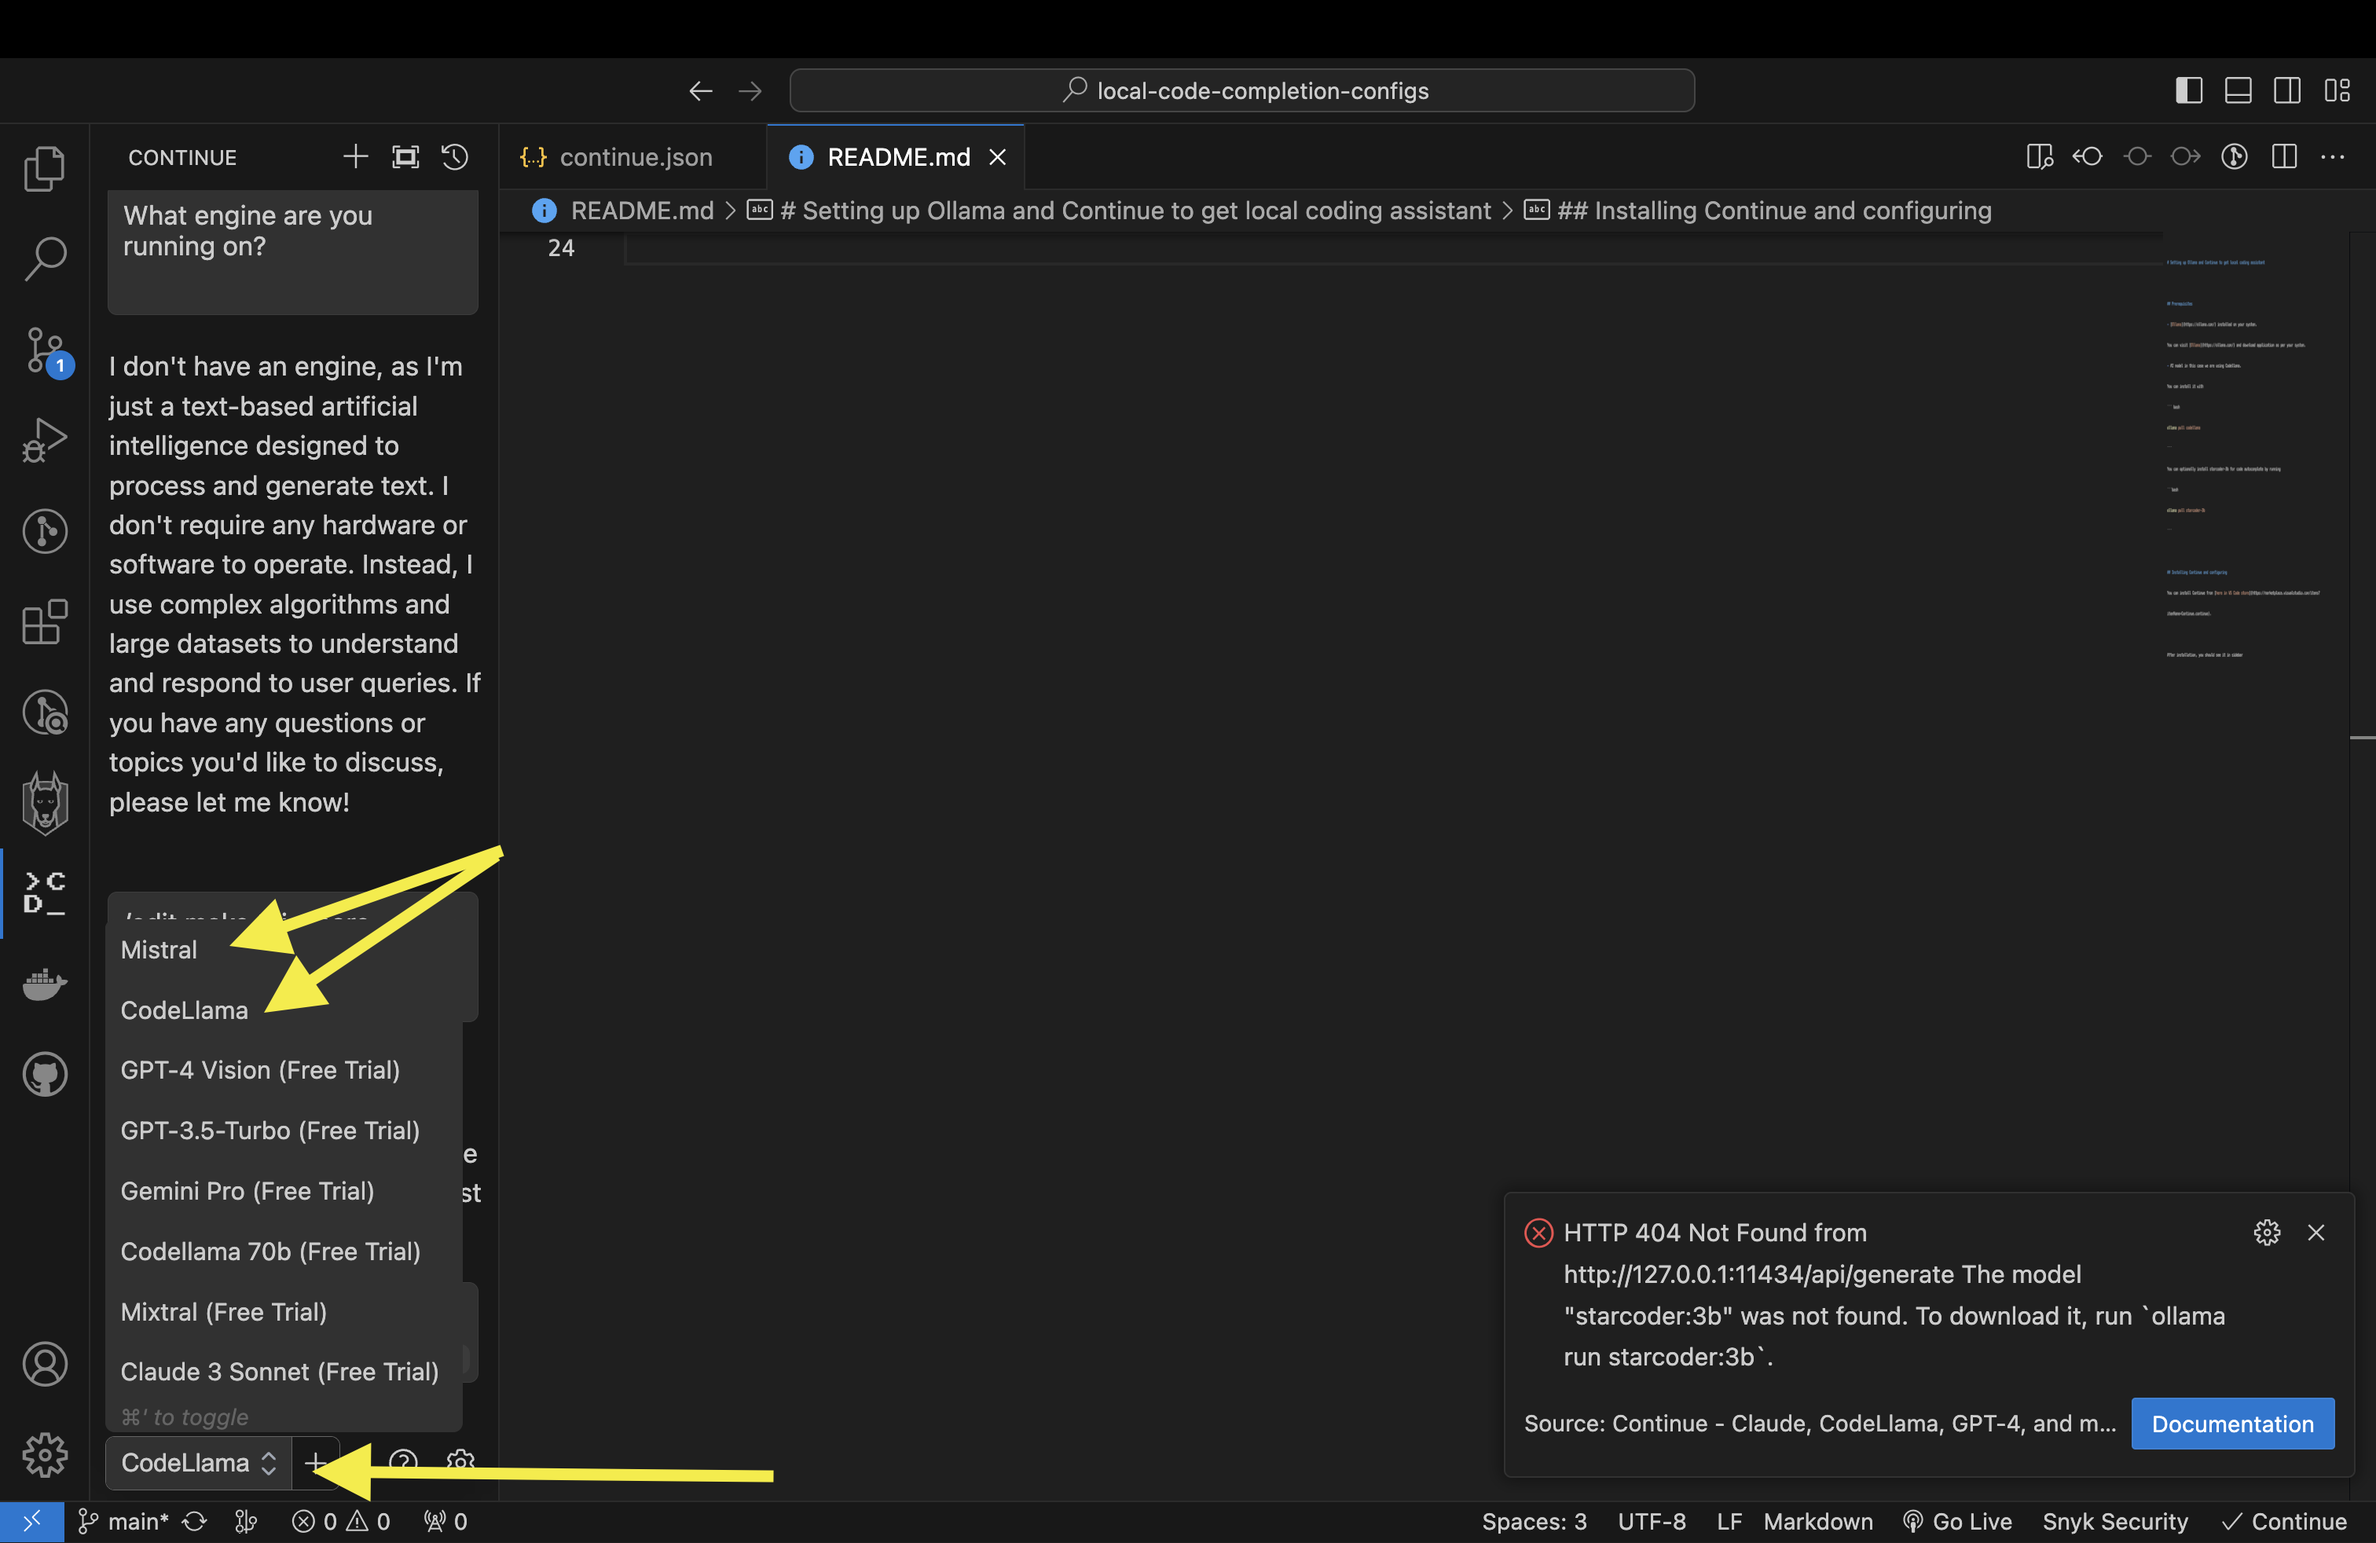
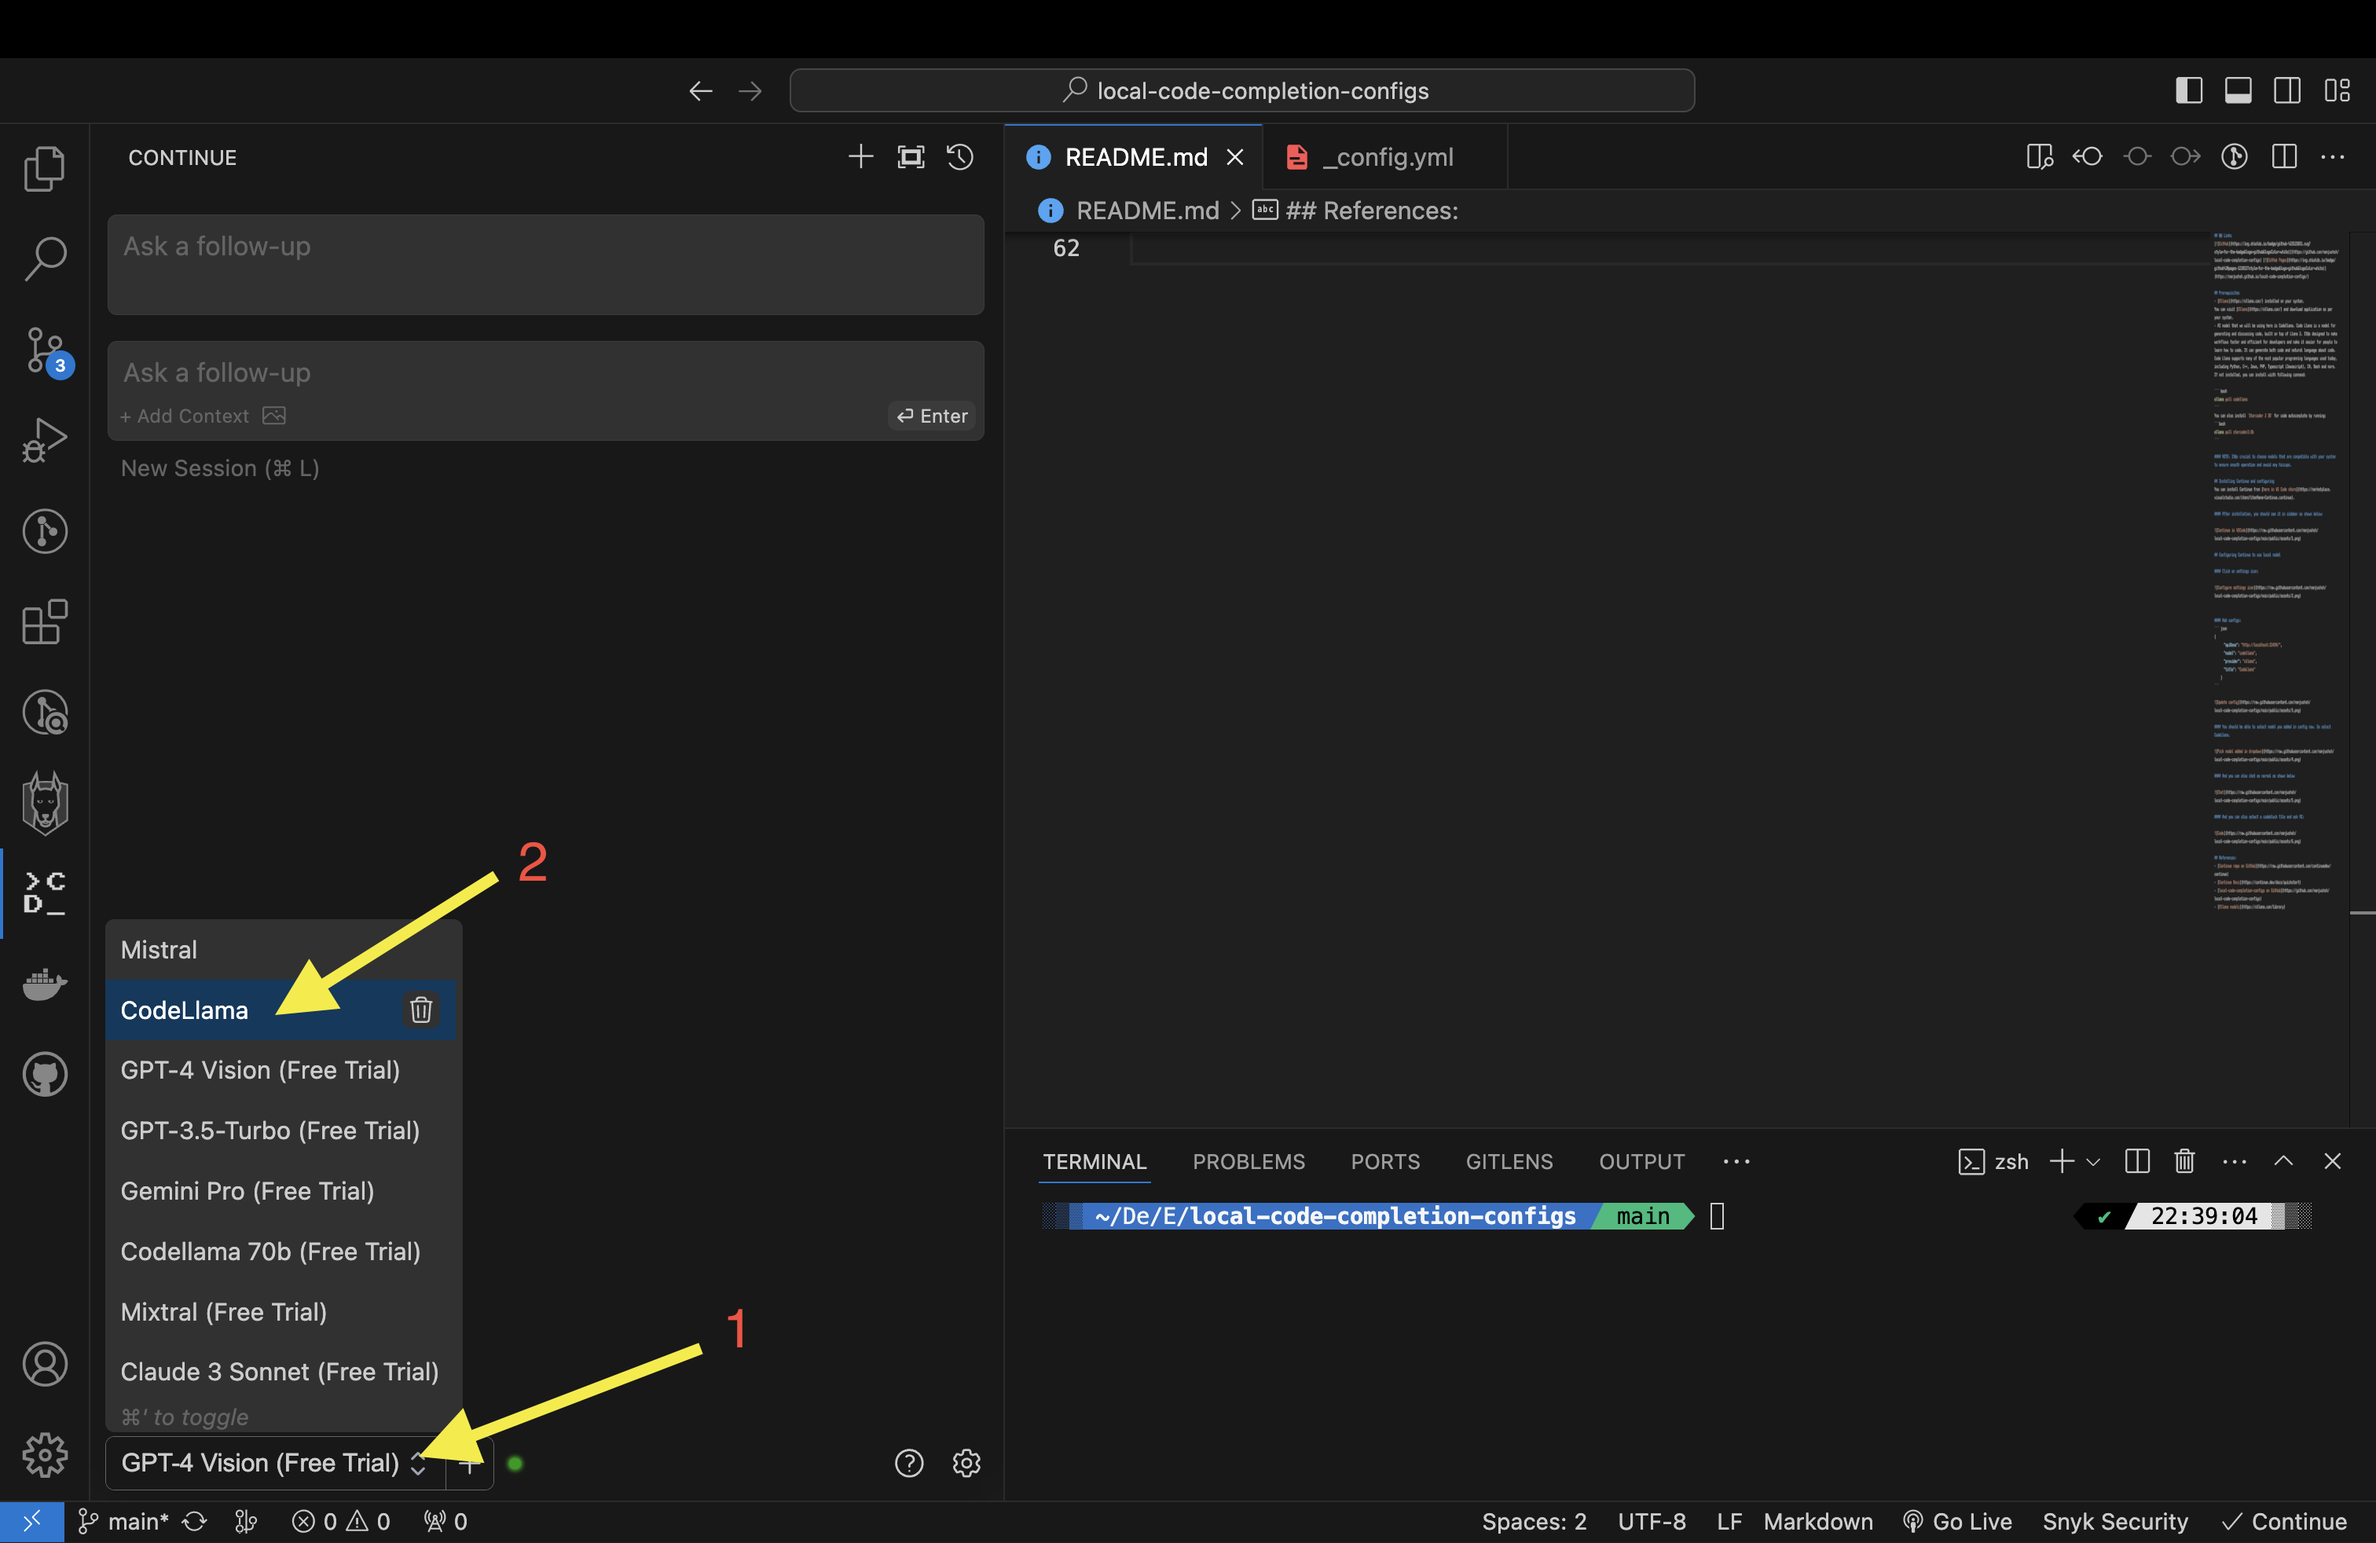
Update images and README

diff --git a/README.md b/README.md
@@ -42,7 +42,7 @@ You can install Continue from [here in VS Code store](https://marketplace.visual
 
 ![Update config](https://raw.githubusercontent.com/manjushsh/local-code-completion-configs/main/public/assets/3.png)
 
-#### You should be able to select model you added in config now. So select CodeLlama. 
+#### Select CodeLlama, which would be visible in dropdown once you add it in config
 
 ![Pick modal added in dropdown](https://raw.githubusercontent.com/manjushsh/local-code-completion-configs/main/public/assets/4.png)
 
